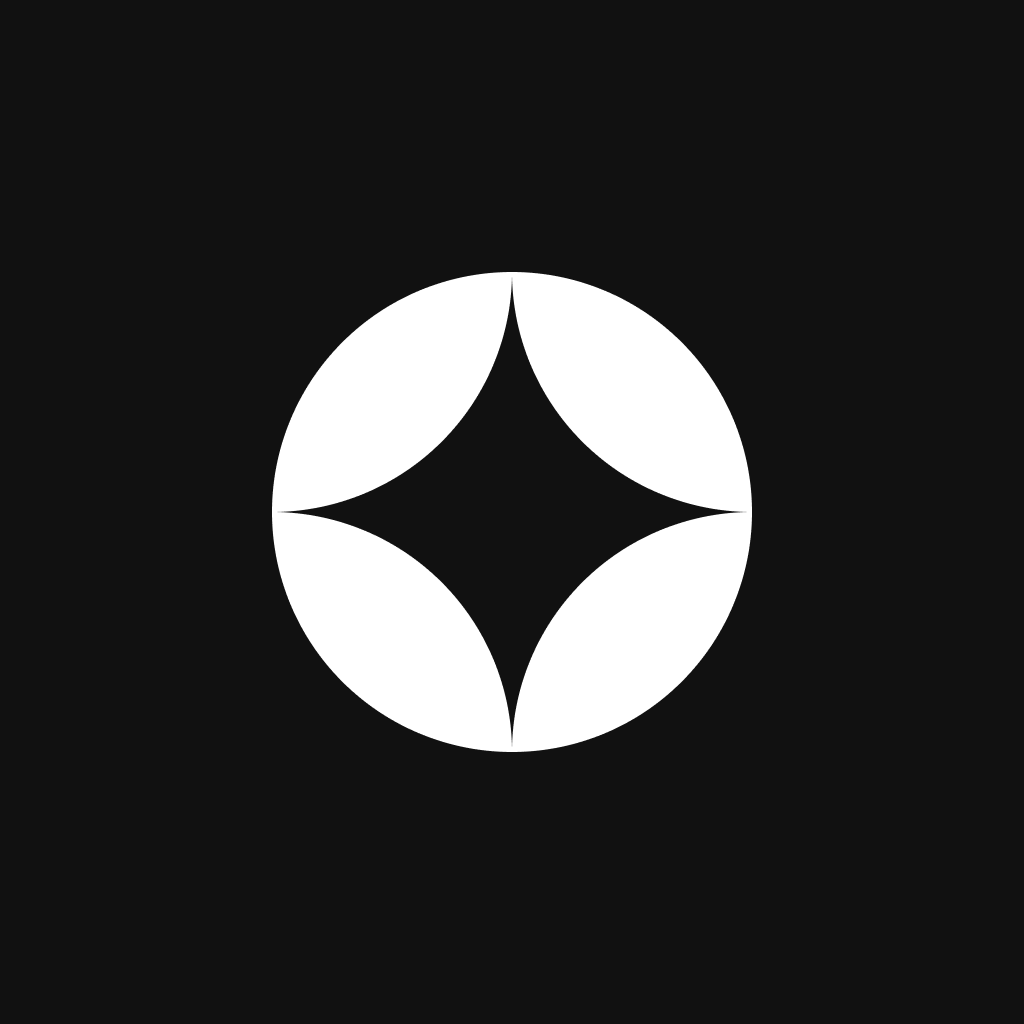
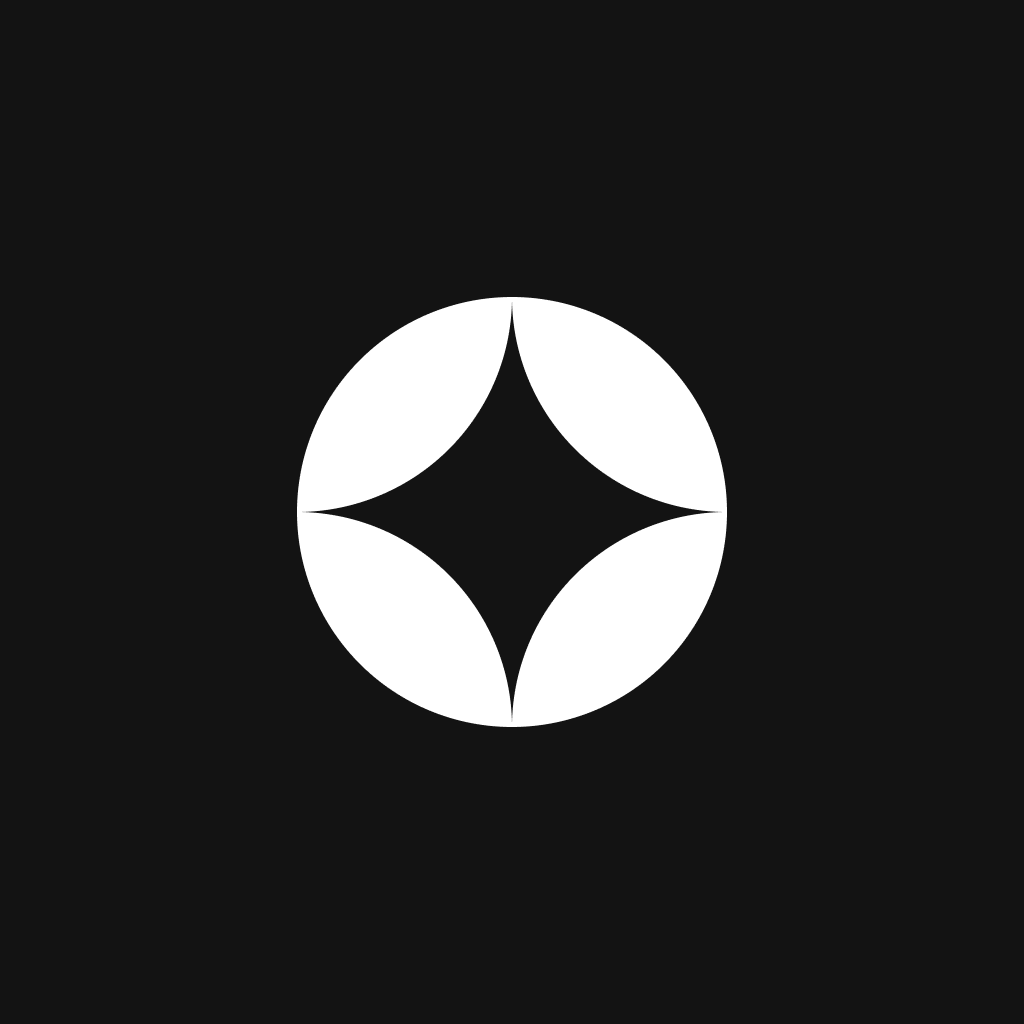
fav button

Changed region(s): [[0.25, 0.25, 0.75, 0.75]]

diff --git a/app/teams.jsx b/app/teams.jsx
@@ -80,7 +80,7 @@ export default function Teams() {
           >
             <FontAwesome 
               name={isFavorite(item.teamAbbrev?.default) ? "star" : "star-o"} 
-              size={20} 
+              size={18} 
               color={isFavorite(item.teamAbbrev?.default) ? "#ffd700" : "white"}
             />
           </TouchableOpacity>
@@ -121,7 +121,7 @@ export default function Teams() {
           )}
           ListEmptyComponent={<Text style={s.emptyText}>No teams found</Text>}
           showsVerticalScrollIndicator={false}
-          ListFooterComponent={<View style={{ height: 55 }} />}
+          ListFooterComponent={<View style={{ height: 60 }} />}
         />
       )}
 

diff --git a/app/players.jsx b/app/players.jsx
@@ -256,7 +256,7 @@ const s = StyleSheet.create({
     textTransform: 'uppercase',
   },
   container: {
-    backgroundColor: "#111",
+    backgroundColor: "#131313",
     flex:1,
   },
   header: {

diff --git a/README.md b/README.md
@@ -37,11 +37,10 @@ npm install
 
 # Start dev server
 npx expo start
-
 ```
 <br>
 
 ### TODO
 - [x] favorites for teams
 - [ ] A feature to let user predict game outcomes
-- [ ] Add playoff bracket
+- [ ] Playoff bracket
